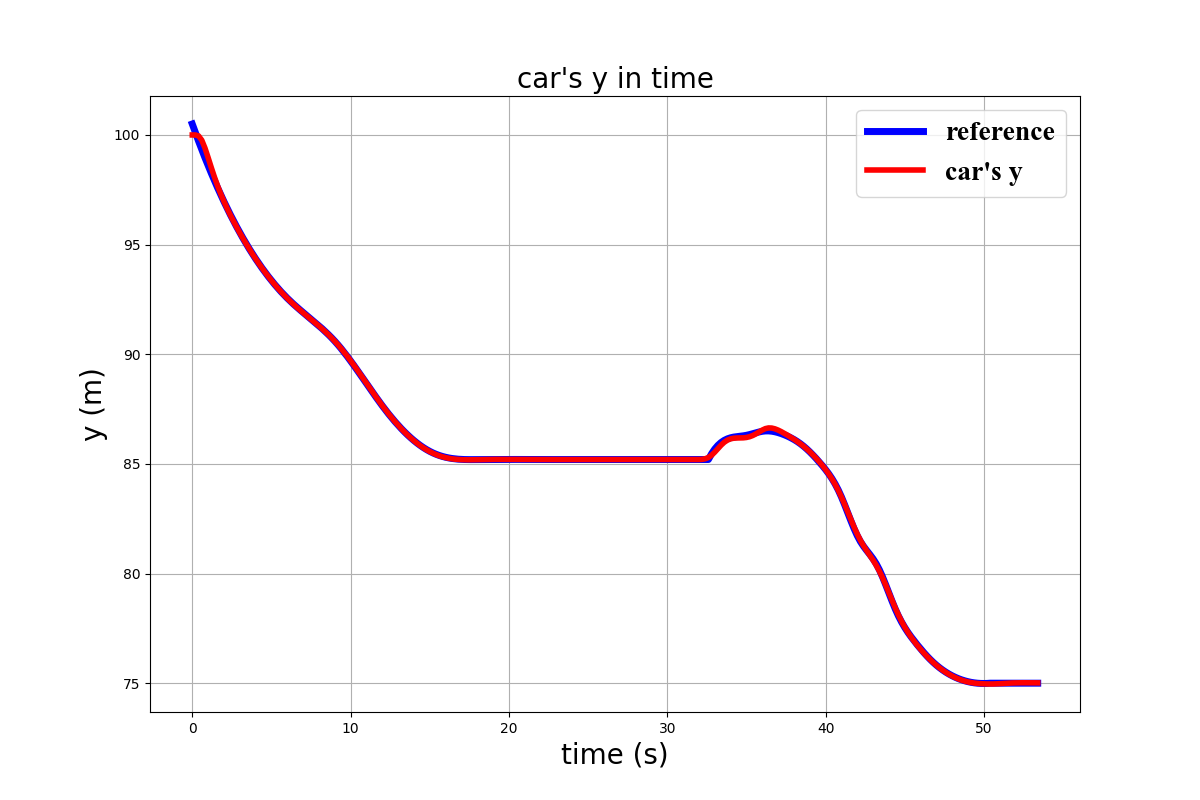
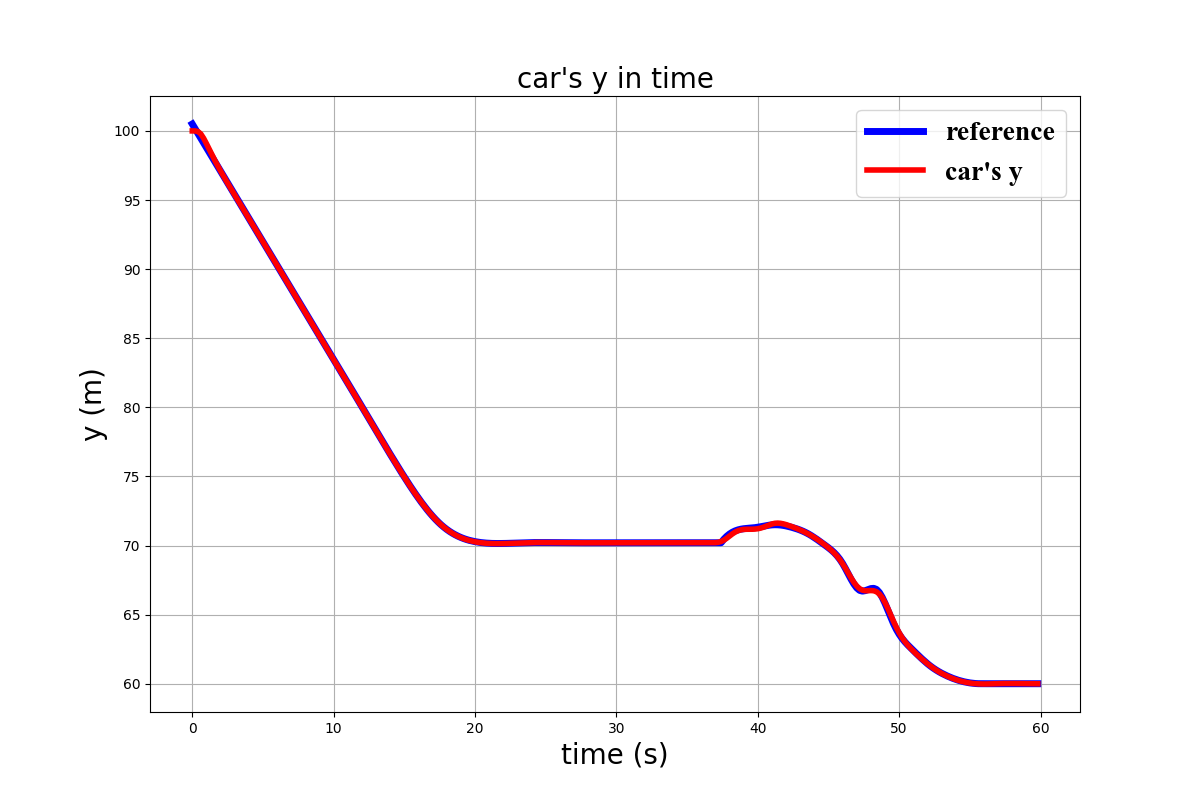
Finanly done!

diff --git a/CAR kinematic model/environment.py b/CAR kinematic model/environment.py
@@ -9,6 +9,8 @@ class Environment:
         self.car_width = 40
         self.trailer_length = 55
         self.trailer_width = 40
+        self.trailer_con_length = 100
+        self.trailer_con_width = 7
         self.wheel_length = 15
         self.wheel_width = 7
         self.wheel_positions = np.array([[60,15],[60,-17.5],[0,15],[0,-17.5]])
@@ -27,6 +29,12 @@ class Environment:
                                     [+self.trailer_length/2+10, -self.trailer_width/2],
                                     [-self.trailer_length/2+10, -self.trailer_width/2],
                                     [-self.trailer_length/2+10, +self.trailer_width/2]],
+                                    np.int32)
+
+        self.trailer_con_struct = np.array([[+self.trailer_con_length/2+50, +self.trailer_con_width/2],
+                                    [+self.trailer_con_length/2+50, -self.trailer_con_width/2],
+                                    [-self.trailer_con_length/2+50, -self.trailer_con_width/2],
+                                    [-self.trailer_con_length/2+50, +self.trailer_con_width/2]],
                                     np.int32)
         
         self.wheel_struct = np.array([[+self.wheel_length/2, +self.wheel_width/2],
@@ -82,6 +90,10 @@ class Environment:
         rotated_struct += np.array([trailer_x,trailer_y]) + np.array([10*self.margin,10*self.margin])
         rendered = cv2.fillPoly(rendered, [rotated_struct], self.color)
 
+        rotated_struct = self.rotate_car(self.trailer_con_struct, angle=psi2)
+        rotated_struct += np.array([trailer_x,trailer_y]) + np.array([10*self.margin,10*self.margin])
+        rendered = cv2.fillPoly(rendered, [rotated_struct], np.array([90,90,90])/255)
+
         # adding wheel
         rotated_wheel_center = self.rotate_car(self.wheel_positions, angle=psi)
         for i,wheel in enumerate(rotated_wheel_center):
@@ -117,15 +129,14 @@ class Environment:
 class Parking1:
     def __init__(self, car_pos):
         self.car_obstacle_hori = self.make_car_hori()
-        self.walls = [[70,i] for i in range(-10, 100)] +\
-                     [[i,55] for i in range(-10, 100)]
-                     # [[i, 90] for i in range(20, 40)] +\
-                     # [[i,80] for i in range(20, 40)] + \
-                     # [[20, i] for i in range(80, 90)] +\
-                     # [[40, i] for i in range(80, 91)]
-                     # [[20, i] for i in range(20, 40)]
+        self.walls = [[60,i] for i in range(-10, 100)] +\
+                     [[i,55] for i in range(-10, 100)] +\
+                     [[i, 90] for i in range(20, 40)] +\
+                     [[i,80] for i in range(20, 40)] + \
+                     [[20, i] for i in range(80, 90)] +\
+                     [[40, i] for i in range(80, 91)]
         self.obs = np.array(self.walls)
-        self.cars = {1 : [[25,75]],2 : [[5,65]],3 : [[40,65]]}
+        self.cars = {1 : [[21,60]],2 : [[5,60]],3 : [[40,60]]}
         self.end = self.cars[car_pos][0]
         self.cars.pop(car_pos)
 

diff --git a/CAR kinematic model/pathplanning.py b/CAR kinematic model/pathplanning.py
@@ -300,7 +300,7 @@ class ParkPathPlanning:
         #Pull back strait, 20 less
         #At ES1
         ensure_path1 = np.vstack([np.arange(x_ensure0,x_ensure0+2,0.2),np.repeat(y_ensure0,2/0.2)]).T
-        ensure_path2 = np.vstack([np.arange(x_ensure2,x_ensure2+3,0.2),np.repeat(y_ensure2,3/0.2)]).T
+        ensure_path2 = np.vstack([np.arange(x_ensure2,x_ensure2+4,0.2),np.repeat(y_ensure2,4/0.2)]).T
         park_path = self.plan_park_down_left(x_ensure2, y_ensure2, x_ensure1, y_ensure1, x_ensure0, y_ensure0)
 
         return np.array([x_ensure0-22, y_ensure0]), park_path, ensure_path0 ,ensure_path1, ensure_path2
@@ -334,7 +334,7 @@ class ParkPathPlanning:
             curve_x = np.append(curve_x, x[::-1])
             curve_y = np.append(curve_y, y[::-1])
 
-            sixdot_nine_b = 12.65 #Increase number to make middle slower
+            sixdot_nine_b = 12.9 #Increase if trailer goes up during backup
 
             x = np.arange(x2, x1 + 1)
             circle_fun = (sixdot_nine_b ** 2 - (x - x1) ** 2)
